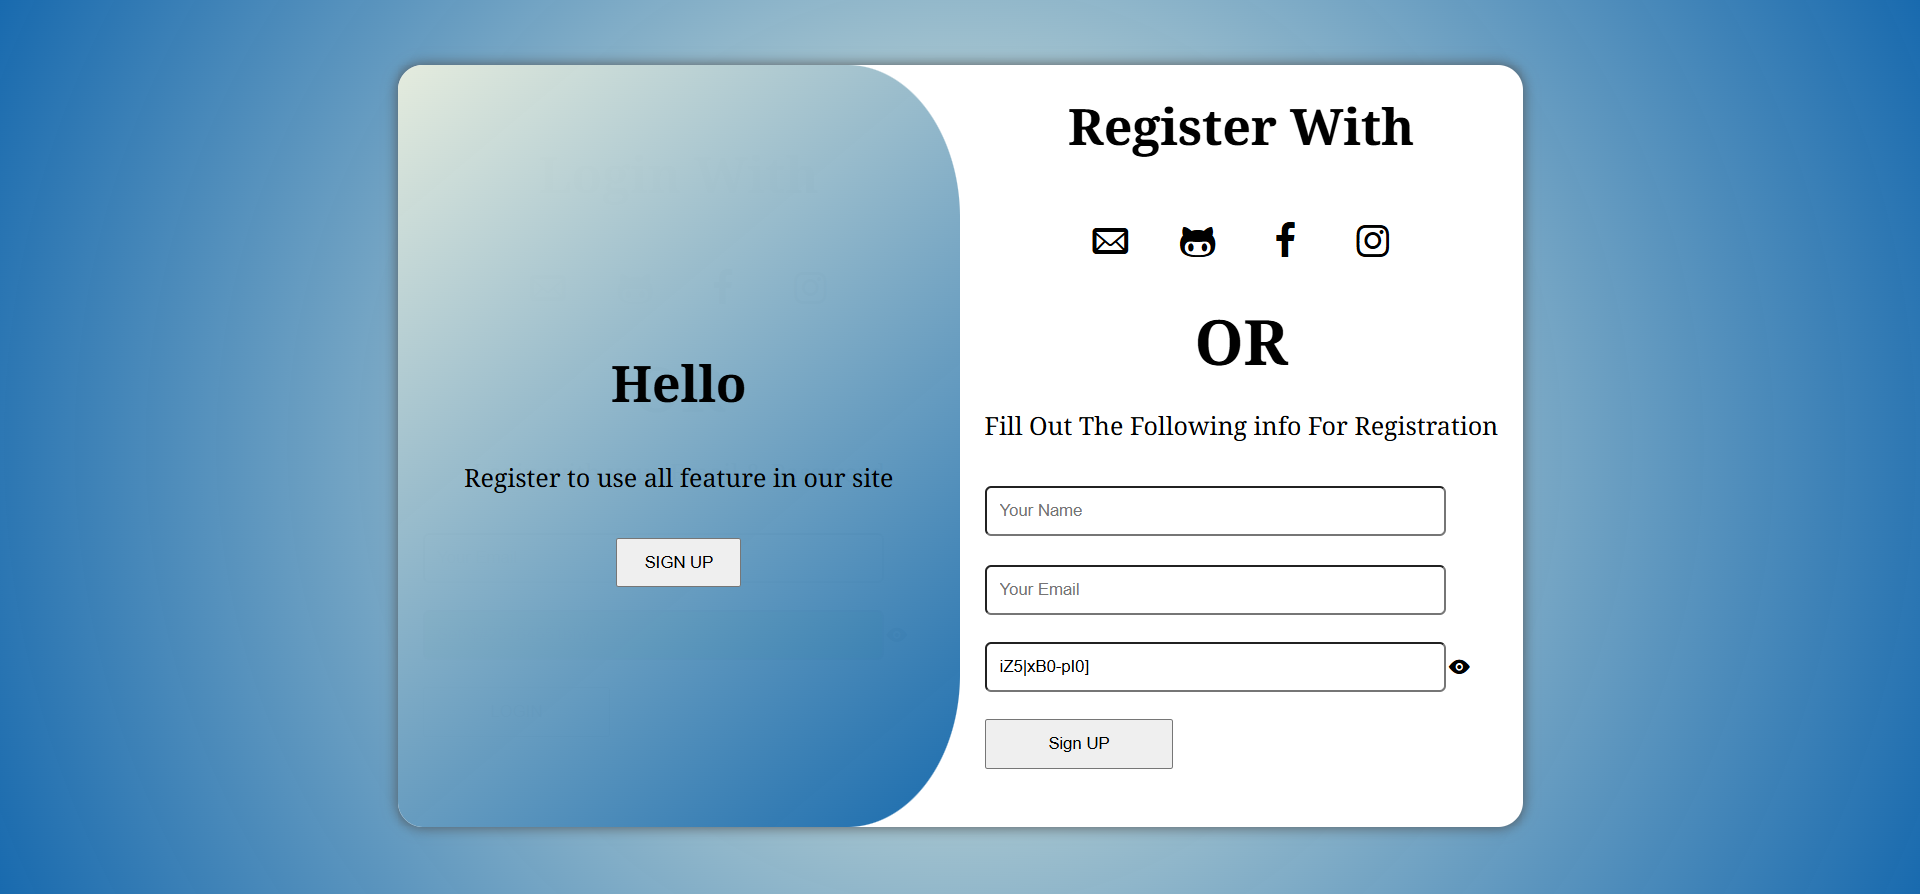
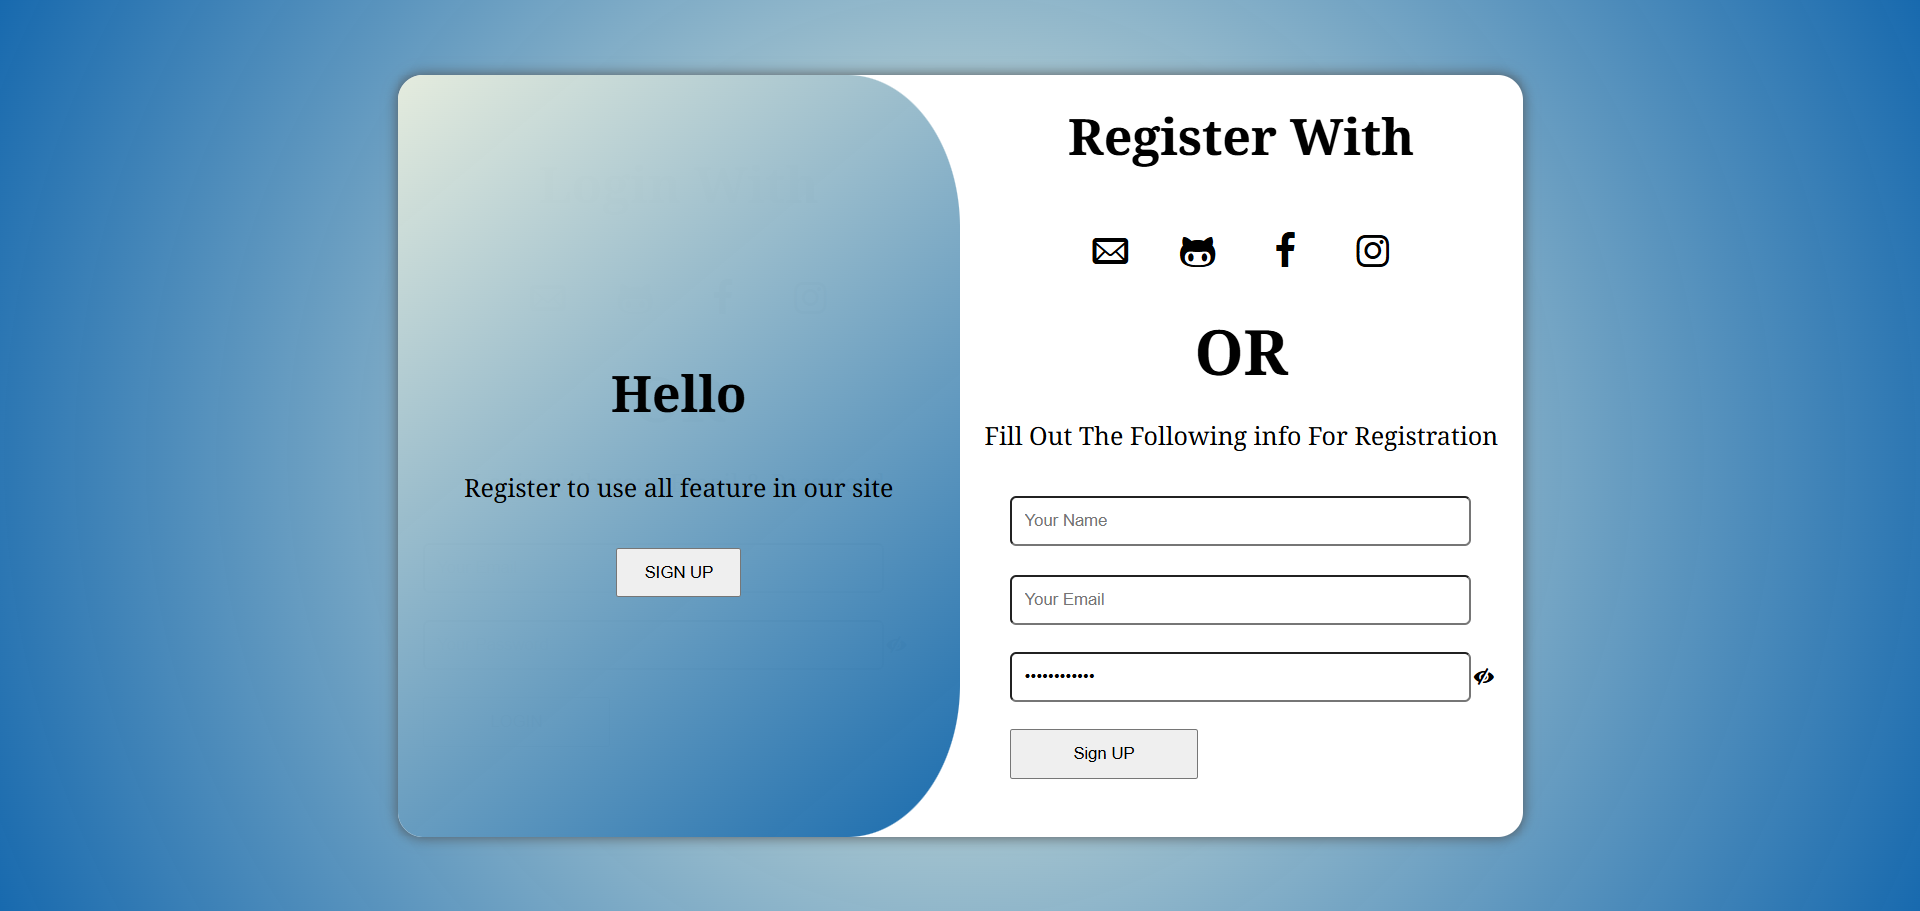
commit Sc

diff --git a/index.html b/index.html
@@ -56,7 +56,7 @@
                 </div>
                 <h3>OR</h3>
                 <p>Fill Out The Following info For Registration</p>
-                <form action="register.php" onsubmit="return myformRight(event)" name="regFormRight">
+                <form id="rightForm" action="register.php" onsubmit="return myformRight(event)" name="regFormRight">
                     <input type="text" name="Name" placeholder="Your Name"><br><br>
                     <label for=""></label>
                     <input type="text" name="emailReg" placeholder="Your Email"><br>
@@ -68,7 +68,7 @@
                     </div>
                     <br>
                     <label id="passLabelRight" for=""></label><br>
-                    <button>Sign UP</button>
+                    <button class="sBtn">Sign UP</button>
                 </form>
             </div>
         </div>

diff --git a/css/master.css b/css/master.css
@@ -198,3 +198,11 @@ section {
       }
     }
 }
+#rightForm{
+    >input{
+        margin-left: 20px;
+    }
+    >.sBtn{
+        margin-left: 20px;
+    }
+}
